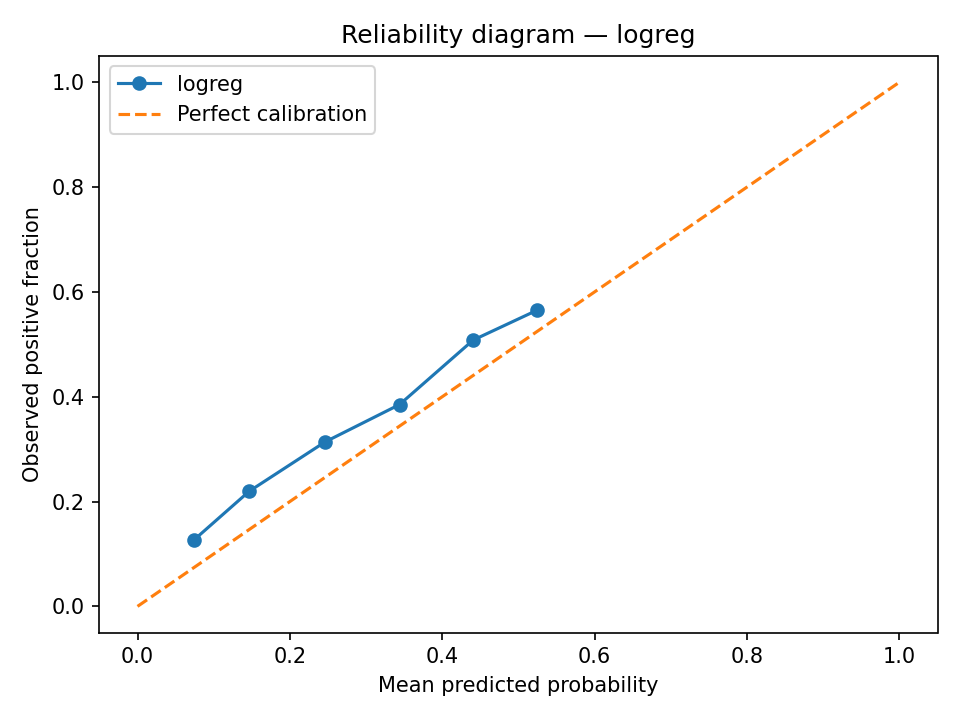
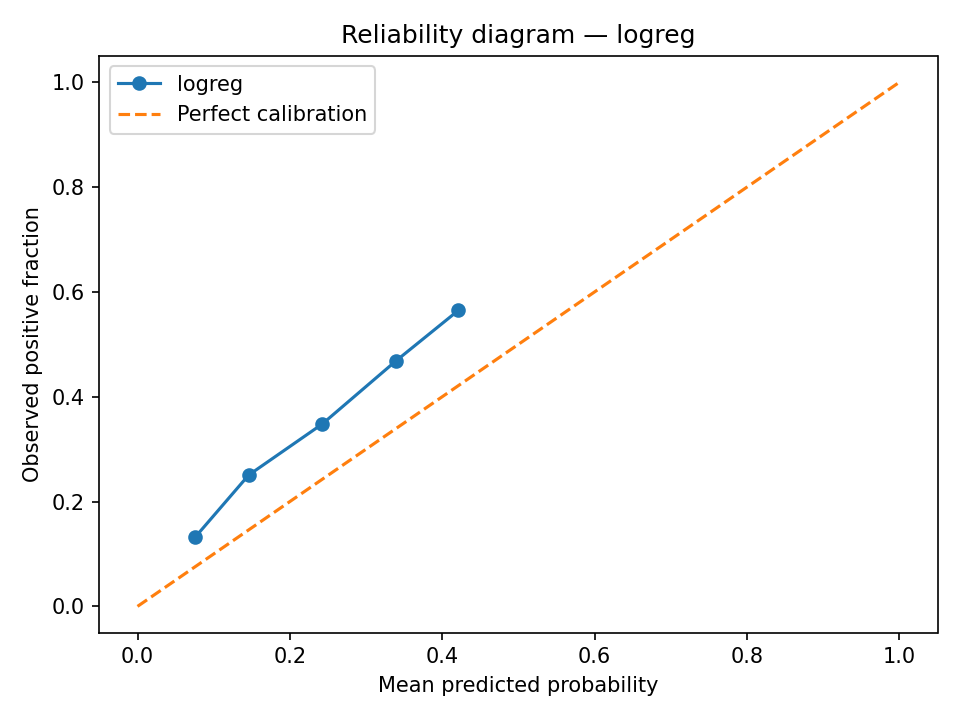
Add historical feature reporting buffer sensitivity analysis

Changed region(s): [[0.2188, 0.5194, 0.4375, 0.7333], [0.4062, 0.4278, 0.5625, 0.55], [0.1875, 0.7333, 0.2188, 0.7639]]

diff --git a/src/flight_delay/features/historical.py b/src/flight_delay/features/historical.py
@@ -39,9 +39,16 @@ FALLBACK_BUFFER = pd.Timedelta(minutes=240)
 TARGET = "is_delayed"
 
 
-def outcome_known_date(df: pd.DataFrame) -> pd.Series:
-    """New York calendar date on which each flight's arrival outcome is assumed to be known."""
-    known = actual_arrival_ny(df) + REPORTING_BUFFER
+def outcome_known_date(
+    df: pd.DataFrame,
+    reporting_buffer_minutes: float = 30,
+) -> pd.Series:
+    """New York date when arrival outcome is assumed known after a reporting delay."""
+    if reporting_buffer_minutes < 0:
+        raise ValueError("reporting_buffer_minutes must be non-negative")
+
+    reporting_buffer = pd.Timedelta(minutes=reporting_buffer_minutes)
+    known = actual_arrival_ny(df) + reporting_buffer
     # Estimate the outcome-known time in UTC so flights from other
     # time zones are assigned to the correct New York calendar date.
     from flight_delay.features.timebase import localize_to_utc
@@ -92,6 +99,7 @@ def add_historical_delay_rates(
     include_all_past: bool = True,
     prior_strength: float = 20.0,
     history: pd.DataFrame | None = None,
+    reporting_buffer_minutes: float = 30,
 ) -> pd.DataFrame:
     """Add past-only delay counts and smoothed rates per key and window.
 
@@ -104,7 +112,10 @@ def add_historical_delay_rates(
     """
     history = df if history is None else history
     hist = history[history[TARGET].notna()].copy()
-    hist["_known"] = outcome_known_date(hist)
+    hist["_known"] = outcome_known_date(
+        hist,
+        reporting_buffer_minutes=reporting_buffer_minutes,
+    )
     hist["_y"] = hist[TARGET].astype(float)
 
     start = min(df["date"].min(), hist["date"].min())

diff --git a/tests/test_features.py b/tests/test_features.py
@@ -425,3 +425,41 @@ def test_outcome_known_on_date_is_excluded_from_that_dates_history():
     assert result.loc[1, "hist_carrier_1d_n"] == 0
     assert result.loc[2, "hist_global_all_n"] == 1
     assert result.loc[2, "hist_carrier_1d_n"] == 1
+
+
+def test_midnight_reporting_buffer_excludes_outcome_until_next_day():
+    rows = pd.DataFrame({
+        "carrier": ["UA", "UA", "UA"],
+        "origin": ["EWR", "EWR", "EWR"],
+        "dest": ["BOS", "BOS", "BOS"],
+        "date": pd.to_datetime([
+            "2013-01-01",
+            "2013-01-02",
+            "2013-01-03",
+        ]),
+        "sched_dep_dt": pd.to_datetime([
+            "2013-01-01 20:00",
+            "2013-01-02 08:00",
+            "2013-01-03 08:00",
+        ]),
+        "dep_delay": [0.0, 0.0, 0.0],
+        "air_time": [60.0, 60.0, 60.0],
+        "arr_time": [2340.0, 930.0, 930.0],
+        "is_delayed": [1, 0, 0],
+    })
+
+    known = outcome_known_date(rows)
+    assert known.iloc[0] == pd.Timestamp("2013-01-02")
+
+    result = add_historical_delay_rates(
+        rows,
+        keys=["carrier"],
+        windows_days=[1],
+        include_all_past=True,
+    )
+
+    # The outcome is excluded from history on its known date.
+    assert result.loc[1, "hist_carrier_1d_n"] == 0
+
+    # By Jan 3, both Jan 1 and Jan 2 outcomes are known.
+    assert result.loc[2, "hist_carrier_1d_n"] == 2

diff --git a/scripts/ablation.py b/scripts/ablation.py
@@ -27,13 +27,14 @@ from flight_delay.models.logistic import build_logistic_pipeline
 from flight_delay.models.xgboost_model import build_xgboost
 
 
+
 EXPERIMENTS = {
-    # Existing experiments: preserve for comparison.
+    # Existing experiments
     "baseline": ["calendar", "schedule_route", "categorical"],
     "no_schedule_route": ["calendar", "categorical"],
     "no_calendar": ["schedule_route", "categorical"],
 
-    # New experiments: measure the incremental value of feature groups.
+    # Historical feature contribution
     "baseline_plus_historical": [
         "calendar", "schedule_route", "categorical", "historical"
     ],
@@ -45,6 +46,7 @@ EXPERIMENTS = {
         "historical", "congestion"
     ],
 }
+
 
 
 def select_features(spec, groups):

diff --git a/src/flight_delay/features/build.py b/src/flight_delay/features/build.py
@@ -142,6 +142,7 @@ def build_feature_table(raw: pd.DataFrame, config: dict) -> pd.DataFrame:
         windows_days=fcfg.get("history_windows_days", [1, 7, 28]),
         include_all_past=fcfg.get("history_include_all_past", True),
         prior_strength=fcfg.get("history_prior_strength", 20.0),
+        reporting_buffer_minutes=fcfg.get("history_reporting_buffer_minutes", 30),
     )
     df["split"] = assign_split(df["date"], config["split"])
 

diff --git a/README.md b/README.md
@@ -90,3 +90,29 @@ and an offline what-if rescheduling analysis. Not part of this scaffold.
 ## Author
 
 Ganga Raghuwanshi — Newton School of Technology, Rishihood University
+
+## Reporting-buffer sensitivity analysis
+
+Historical features were evaluated with reporting buffers of 0, 30, 60 and 120 minutes. These are sensitivity experiments, not proof that any buffer reflects actual data availability.
+
+### Logistic Regression
+
+| Buffer | Test PR-AUC | Test ROC-AUC | Brier | ECE | Precision | Recall |
+|---:|---:|---:|---:|---:|---:|---:|
+| 0 min | 0.39166 | 0.66001 | 0.18805 | 0.08787 | 0.5501 | 0.04331 |
+| 30 min | 0.38992 | 0.65873 | 0.18852 | 0.08936 | 0.5291 | 0.05349 |
+| 60 min | 0.38870 | 0.65739 | 0.18917 | 0.09166 | 0.5395 | 0.04998 |
+| 120 min | 0.38674 | 0.65499 | 0.18995 | 0.09385 | 0.5183 | 0.05887 |
+
+### XGBoost
+
+| Buffer | Test PR-AUC | Test ROC-AUC | Brier | ECE | Validation threshold meets 60% precision? |
+|---:|---:|---:|---:|---:|---|
+| 0 min | 0.38381 | 0.64804 | 0.19102 | 0.09619 | Yes |
+| 30 min | 0.38518 | 0.64999 | 0.19067 | 0.09591 | No |
+| 60 min | 0.38206 | 0.64682 | 0.19105 | 0.09590 | No |
+| 120 min | 0.38128 | 0.64542 | 0.19170 | 0.09801 | No |
+
+The 30-minute XGBoost run achieved the highest test PR-AUC and ROC-AUC among these configurations, but the differences were small. Only the 0-minute run found a validation threshold meeting the 60% precision target. Since the test set was evaluated across these configurations, these comparisons are exploratory and should not be used for further test-set tuning.
+
+The reporting buffer is an assumption about historical outcome availability. Its operational validity depends on the actual data source and reporting latency, which have not been independently verified.
